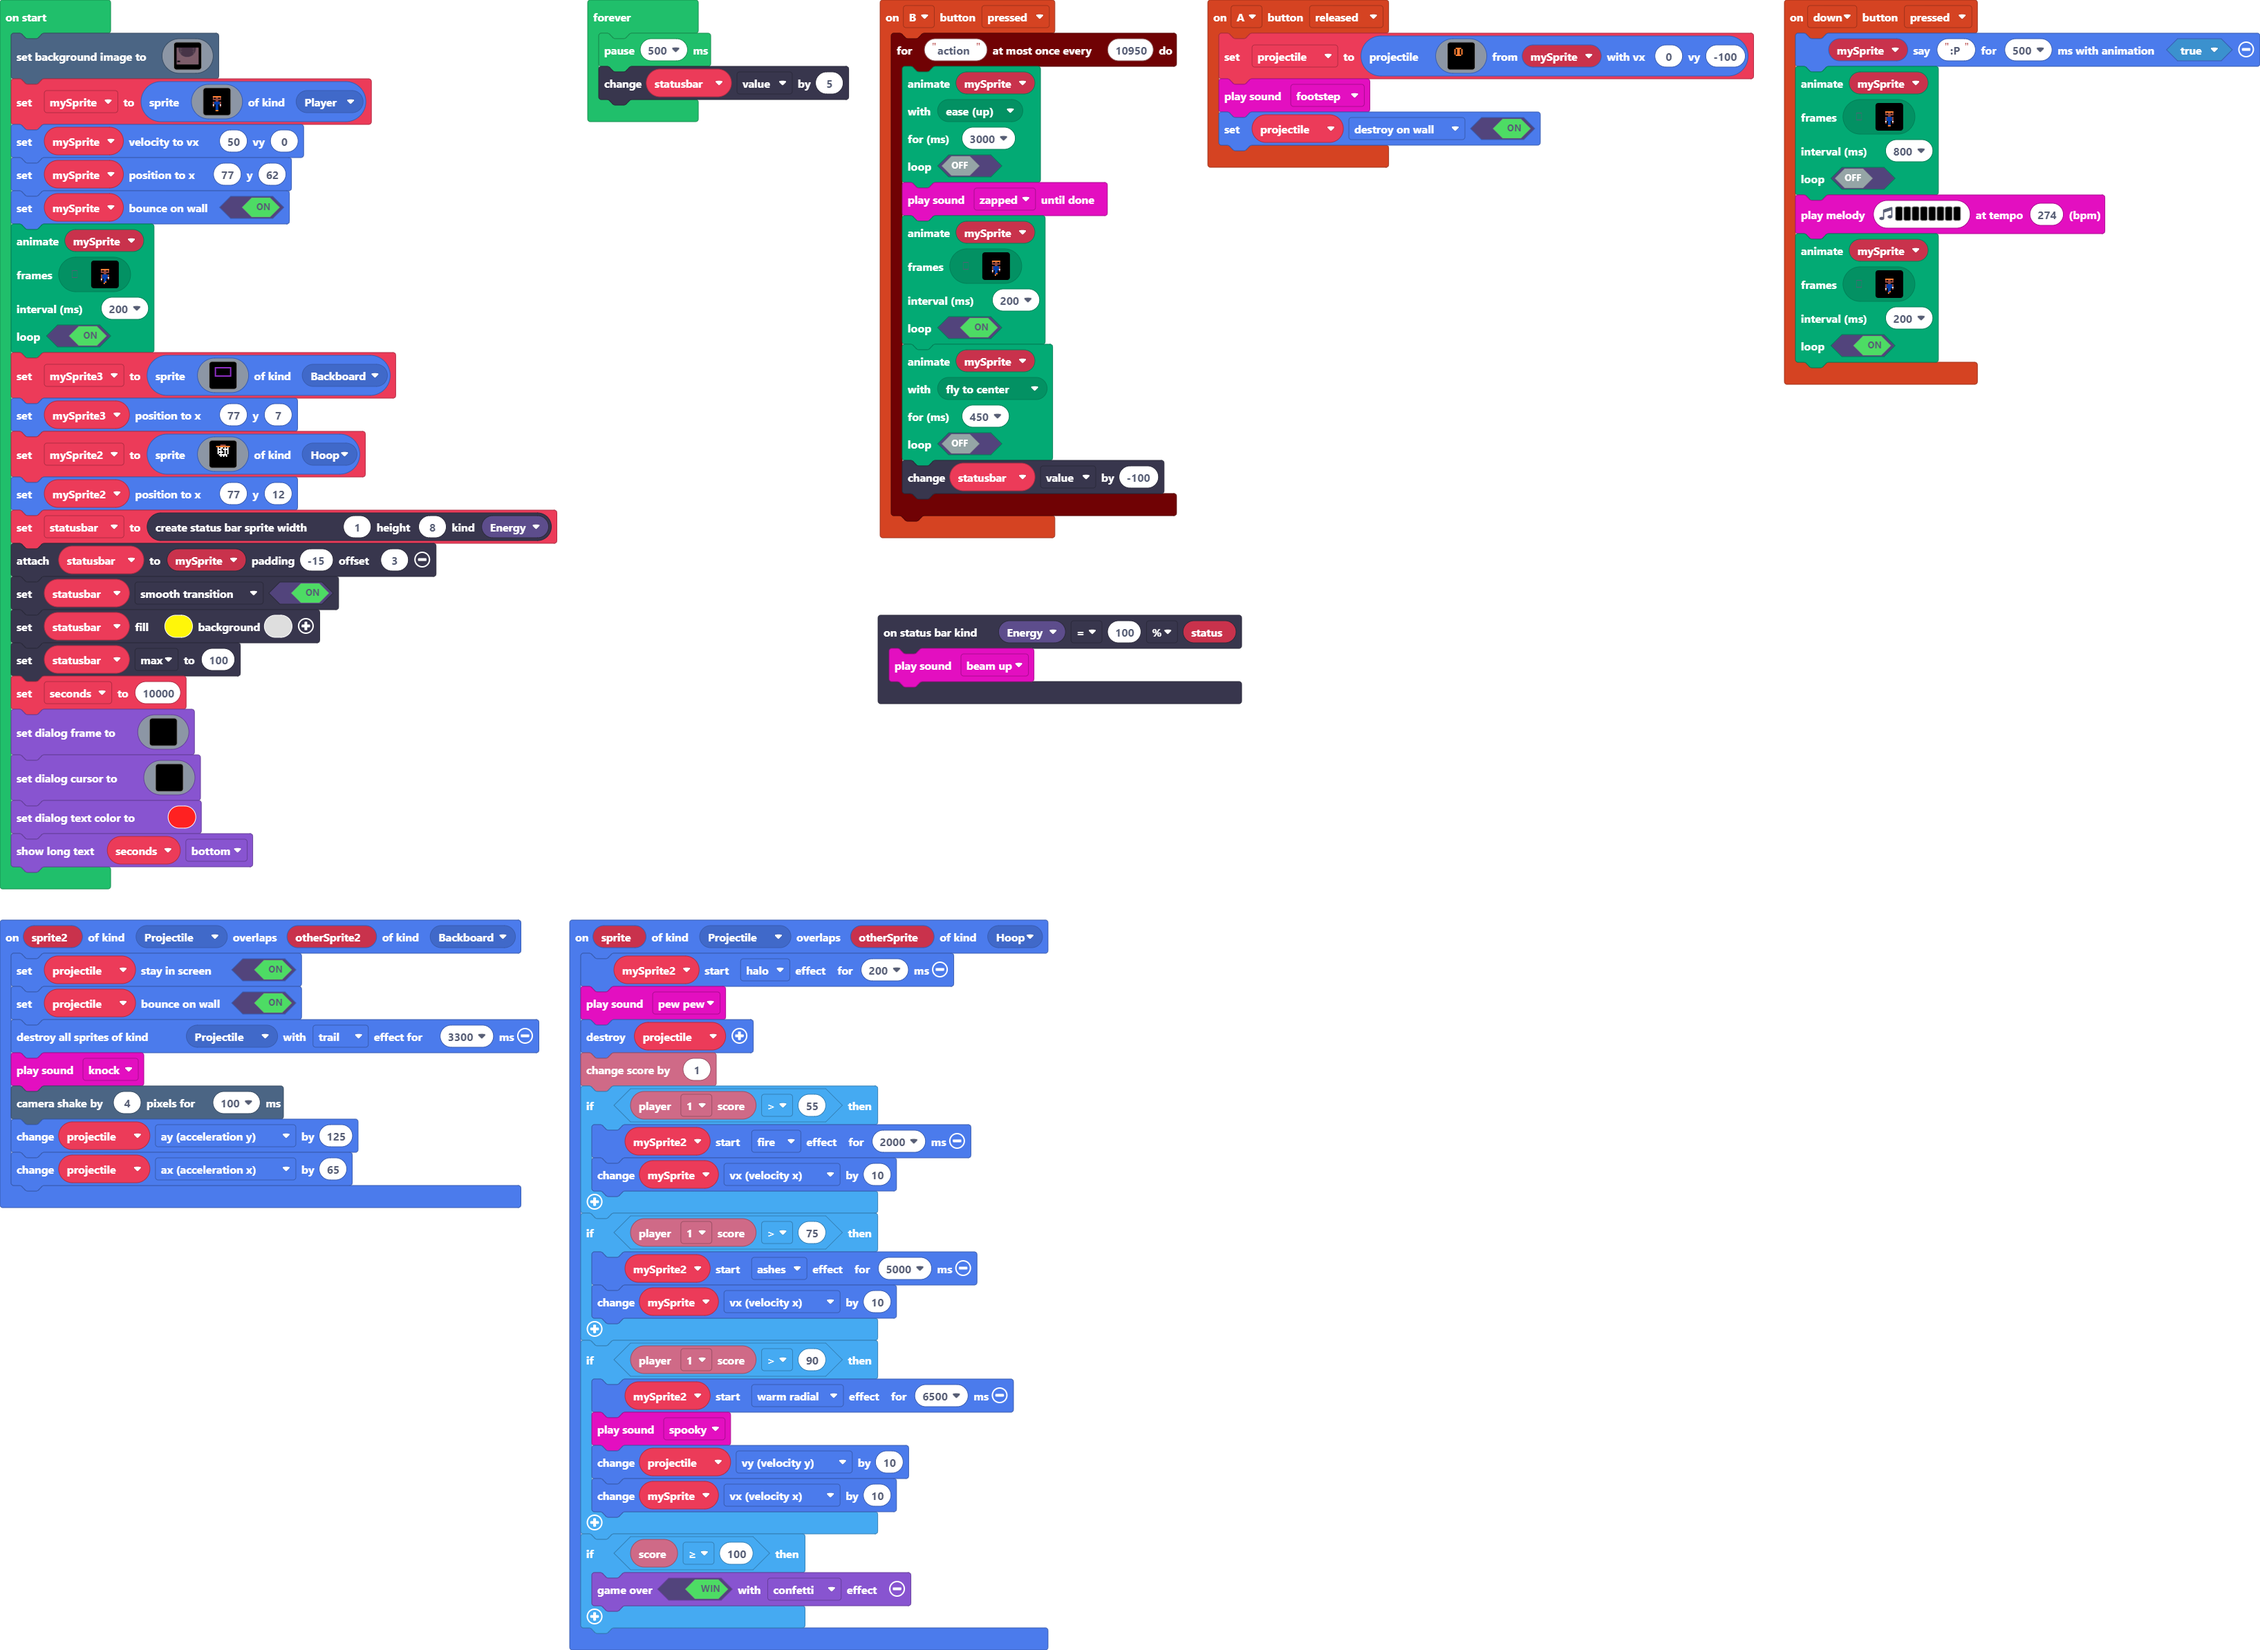
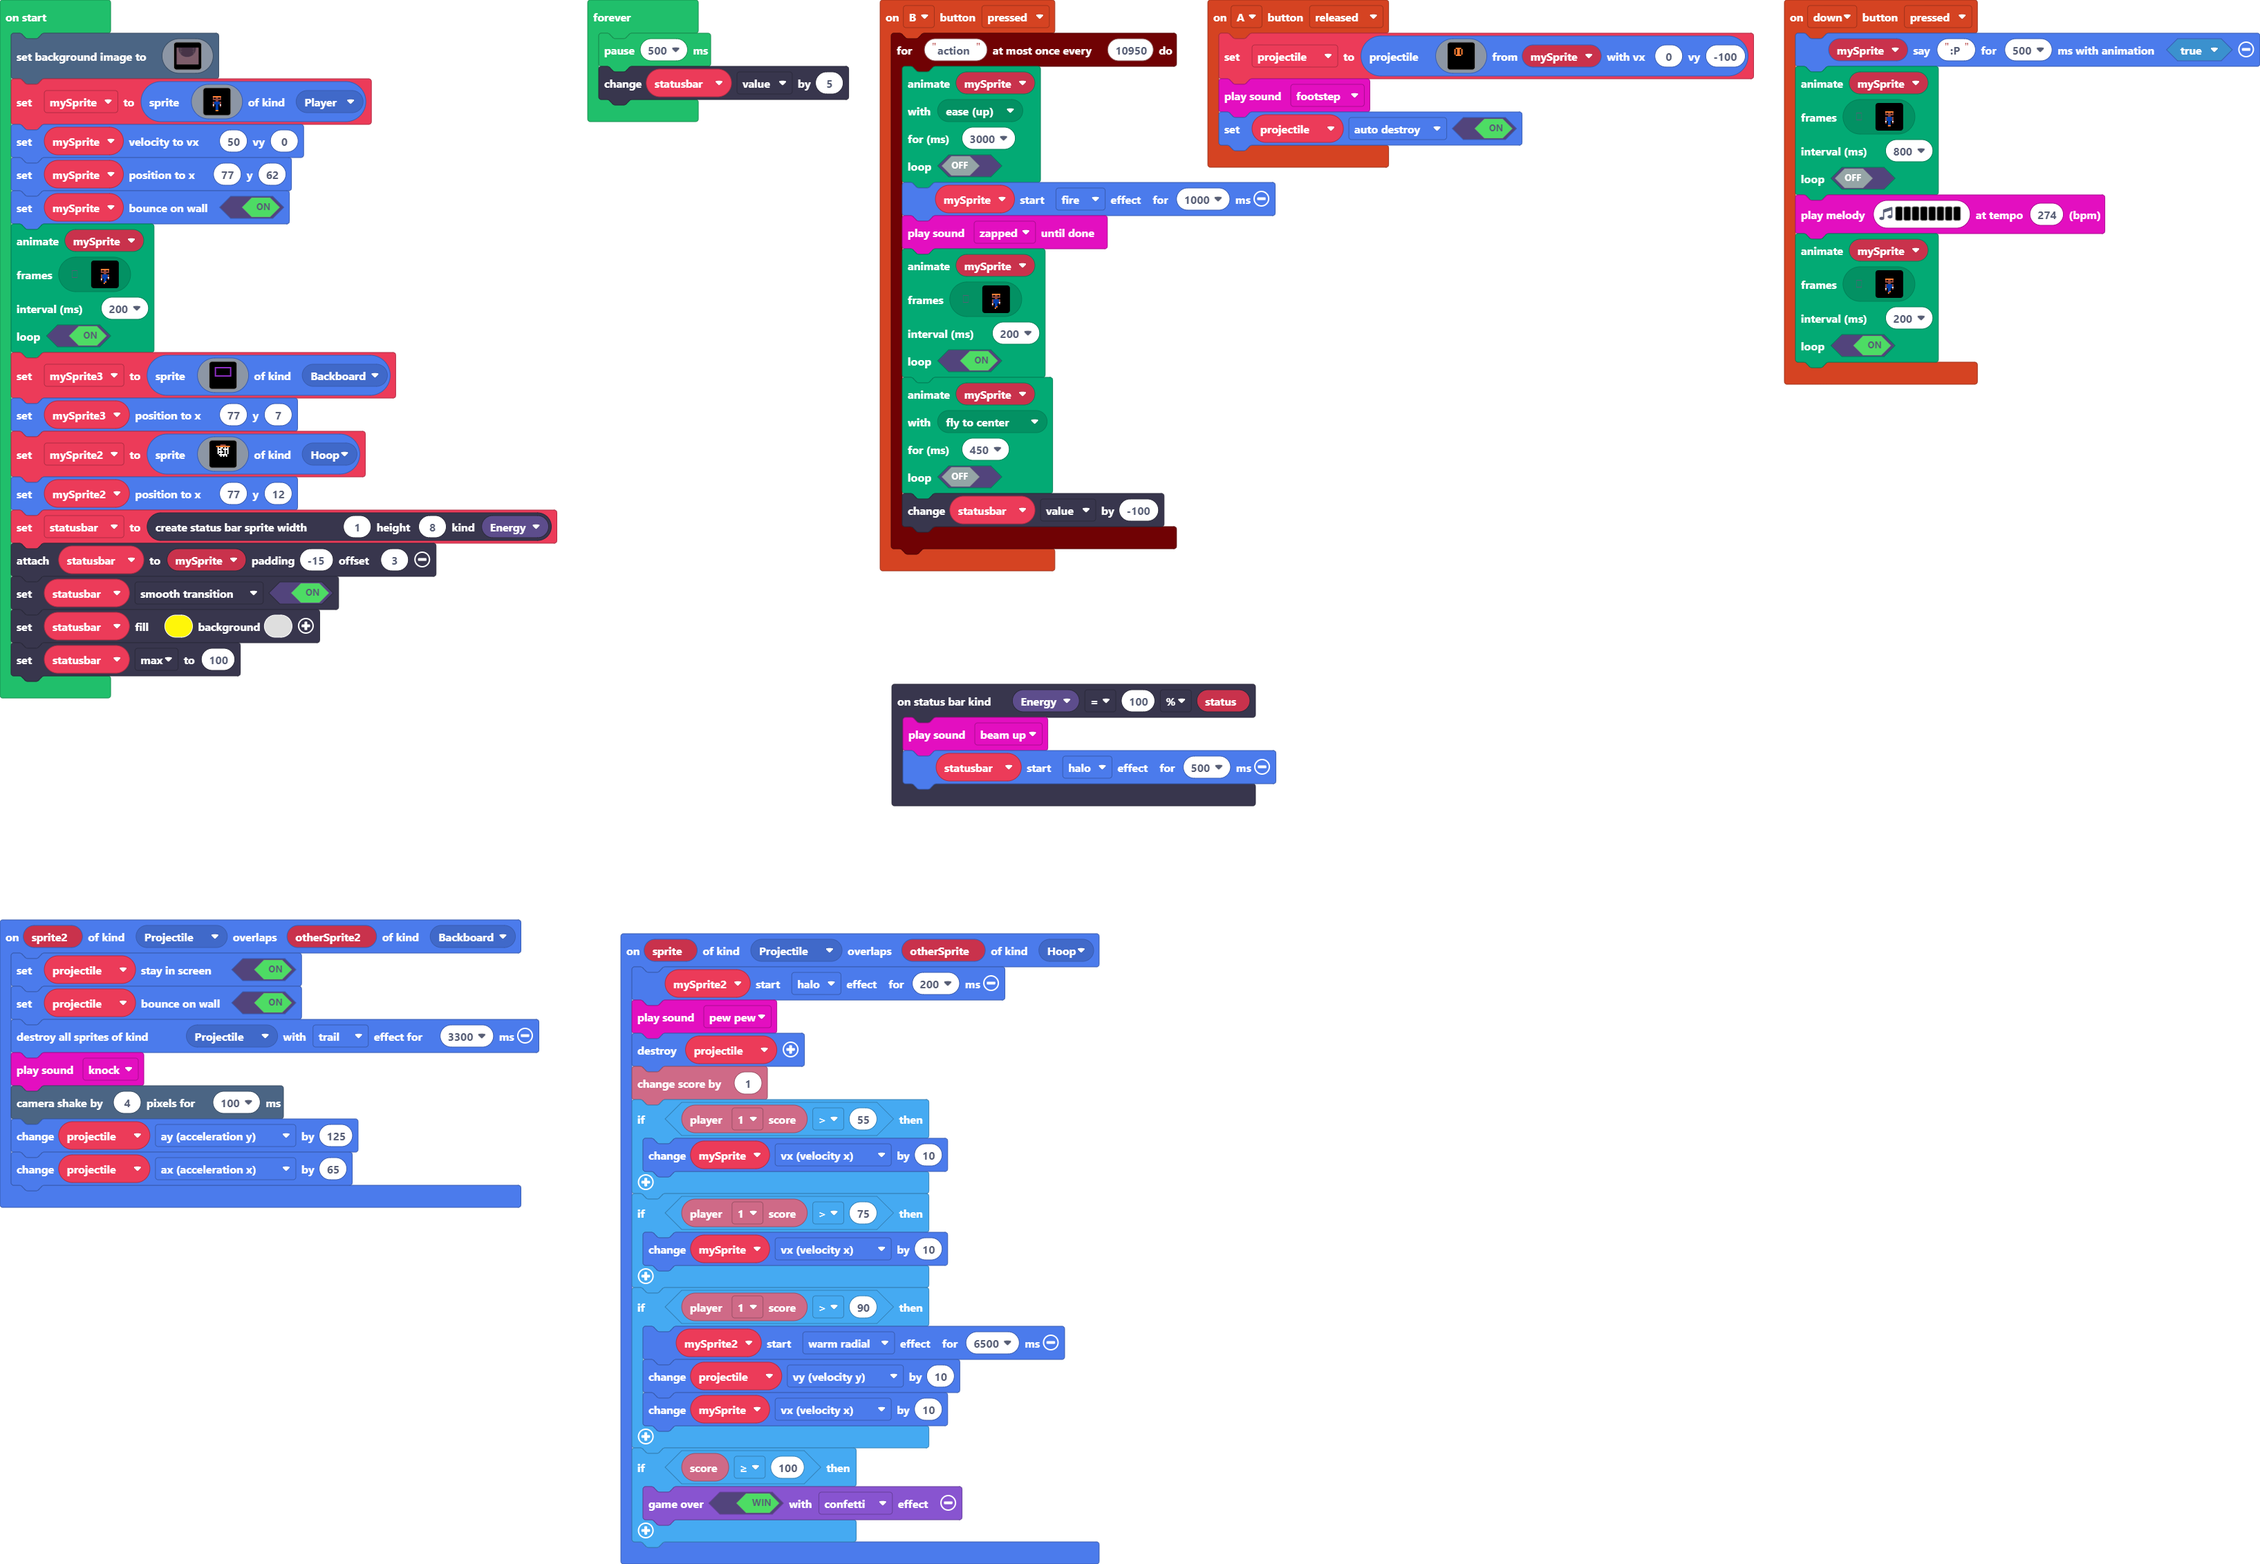
Reworked stam + various effects, removed countdown for now

diff --git a/images.g.ts b/images.g.ts
@@ -231,16 +231,16 @@ bbbbbbbbbbbbbbbbbbbbbbbbbbbbbbbbbbbbbbbbbbbbbbbbbbbbbbbbbbbbbbbbbbbbbbbbbbbbbbbb
 bbbbbbbbbbbbbbbbbbbbbbbbbbbbbbbbbbbbbbbbbbbbbbbbbbbbbbbbbbbbbbbbbbbbbbbbbbbbbbbbbbbbbbbbbbbbbbbbbbbbbbbbbbbbbbbbbbbbbbbbbbbbbbbbbbbbbbbbbbbbbbbbbbbbbbbbbbbbbbbb
 bbbbbbbbbbbbbbbbbbbbbbbbbbbbbbbbbbbbbbbbbbbbbbbbbbbbbbbbbbbbbbbbbbbbbbbbbbbbbbbbbbbbbbbbbbbbbbbbbbbbbbbbbbbbbbbbbbbbbbbbbbbbbbbbbbbbbbbbbbbbbbbbbbbbbbbbbbbbbbbb
 bbbbbbbbbbbbbbbbbbbbbbbbbbbbbbbbbbbbbbbbbbbbbbbbbbbbbbbbbbbbbbbbbbbbbbbbbbbbbbbbbbbbbbbbbbbbbbbbbbbbbbbbbbbbbbbbbbbbbbbbbbbbbbbbbbbbbbbbbbbbbbbbbbbbbbbbbbbbbbbb
-bbbbbbffffffffffffffffffffbbbbbbbbbbbbbbbbbbbbbbbbbbbbbbbbbbbbbbbbbbbbbbbbbbbbbbbbbbbbbbbbbbbbbbbbbbbbbbbbbbbbbbbbbbbbbbbbbbbbbbbbbbbbbbbbbbbbbbbbbbbbbbbbbbbbbb
-bbbbbbffffffffffffffffffffbbbbbbbbbbbbbbbbbbbbbbbbbbbbbbbbbbbbbbbbbbbbbbbbbbbbbbbbbbbbbbbbbbbbbbbbbbbbbbbbbbbbbbbbbbbbbbbbbbbbbbbbbbbbbbbbbbbbbbbbbbbbbbbbbbbbbb
-bbbbbbffffffffffffffffffffbbbbbbbbbbbbbbbbbbbbbbbbbbbbbbbbbbbbbbbbbbbbbbbbbbbbbbbbbbbbbbbbbbbbbbbbbbbbbbbbbbbbbbbbbbbbbbbbbbbbbbbbbbbbbbbbbbbbbbbbbbbbbbbbbbbbbb
-bbbbbbffffffffffffffffffffbbbbbbbbbbbbbbbbbbbbbbbbbbbbbbbbbbbbbbbbbbbbbbbbbbbbbbbbbbbbbbbbbbbbbbbbbbbbbbbbbbbbbbbbbbbbbbbbbbbbbbbbbbbbbbbbbbbbbbbbbbbbbbbbbbbbbb
-bbbbbbffffffffffffffffffffbbbbbbbbbbbbbbbbbbbbbbbbbbbbbbbbbbbbbbbbbbbbbbbbbbbbbbbbbbbbbbbbbbbbbbbbbbbbbbbbbbbbbbbbbbbbbbbbbbbbbbbbbbbbbbbbbbbbbbbbbbbbbbbbbbbbbb
-bbbbbbffffffffffffffffffffbbbbbbbbbbbbbbbbbbbbbbbbbbbbbbbbbbbbbbbbbbbbbbbbbbbbbbbbbbbbbbbbbbbbbbbbbbbbbbbbbbbbbbbbbbbbbbbbbbbbbbbbbbbbbbbbbbbbbbbbbbbbbbbbbbbbbb
-bbbbbbffffffffffffffffffffbbbbbbbbbbbbbbbbbbbbbbbbbbbbbbbbbbbbbbbbbbbbbbbbbbbbbbbbbbbbbbbbbbbbbbbbbbbbbbbbbbbbbbbbbbbbbbbbbbbbbbbbbbbbbbbbbbbbbbbbbbbbbbbbbbbbbb
-bbbbbbffffffffffffffffffffbbbbbbbbbbbbbbbbbbbbbbbbbbbbbbbbbbbbbbbbbbbbbbbbbbbbbbbbbbbbbbbbbbbbbbbbbbbbbbbbbbbbbbbbbbbbbbbbbbbbbbbbbbbbbbbbbbbbbbbbbbbbbbbbbbbbbb
-bbbbbbffffffffffffffffffffbbbbbbbbbbbbbbbbbbbbbbbbbbbbbbbbbbbbbbbbbbbbbbbbbbbbbbbbbbbbbbbbbbbbbbbbbbbbbbbbbbbbbbbbbbbbbbbbbbbbbbbbbbbbbbbbbbbbbbbbbbbbbbbbbbbbbb
-bbbbbbffffffffffffffffffffbbbbbbbbbbbbbbbbbbbbbbbbbbbbbbbbbbbbbbbbbbbbbbbbbbbbbbbbbbbbbbbbbbbbbbbbbbbbbbbbbbbbbbbbbbbbbbbbbbbbbbbbbbbbbbbbbbbbbbbbbbbbbbbbbbbbbb
+bbbbbbbbbbbbbbbbbbbbbbbbbbbbbbbbbbbbbbbbbbbbbbbbbbbbbbbbbbbbbbbbbbbbbbbbbbbbbbbbbbbbbbbbbbbbbbbbbbbbbbbbbbbbbbbbbbbbbbbbbbbbbbbbbbbbbbbbbbbbbbbbbbbbbbbbbbbbbbbb
+bbbbbbbbbbbbbbbbbbbbbbbbbbbbbbbbbbbbbbbbbbbbbbbbbbbbbbbbbbbbbbbbbbbbbbbbbbbbbbbbbbbbbbbbbbbbbbbbbbbbbbbbbbbbbbbbbbbbbbbbbbbbbbbbbbbbbbbbbbbbbbbbbbbbbbbbbbbbbbbb
+bbbbbbbbbbbbbbbbbbbbbbbbbbbbbbbbbbbbbbbbbbbbbbbbbbbbbbbbbbbbbbbbbbbbbbbbbbbbbbbbbbbbbbbbbbbbbbbbbbbbbbbbbbbbbbbbbbbbbbbbbbbbbbbbbbbbbbbbbbbbbbbbbbbbbbbbbbbbbbbb
+bbbbbbbbbbbbbbbbbbbbbbbbbbbbbbbbbbbbbbbbbbbbbbbbbbbbbbbbbbbbbbbbbbbbbbbbbbbbbbbbbbbbbbbbbbbbbbbbbbbbbbbbbbbbbbbbbbbbbbbbbbbbbbbbbbbbbbbbbbbbbbbbbbbbbbbbbbbbbbbb
+bbbbbbbbbbbbbbbbbbbbbbbbbbbbbbbbbbbbbbbbbbbbbbbbbbbbbbbbbbbbbbbbbbbbbbbbbbbbbbbbbbbbbbbbbbbbbbbbbbbbbbbbbbbbbbbbbbbbbbbbbbbbbbbbbbbbbbbbbbbbbbbbbbbbbbbbbbbbbbbb
+bbbbbbbbbbbbbbbbbbbbbbbbbbbbbbbbbbbbbbbbbbbbbbbbbbbbbbbbbbbbbbbbbbbbbbbbbbbbbbbbbbbbbbbbbbbbbbbbbbbbbbbbbbbbbbbbbbbbbbbbbbbbbbbbbbbbbbbbbbbbbbbbbbbbbbbbbbbbbbbb
+bbbbbbbbbbbbbbbbbbbbbbbbbbbbbbbbbbbbbbbbbbbbbbbbbbbbbbbbbbbbbbbbbbbbbbbbbbbbbbbbbbbbbbbbbbbbbbbbbbbbbbbbbbbbbbbbbbbbbbbbbbbbbbbbbbbbbbbbbbbbbbbbbbbbbbbbbbbbbbbb
+bbbbbbbbbbbbbbbbbbbbbbbbbbbbbbbbbbbbbbbbbbbbbbbbbbbbbbbbbbbbbbbbbbbbbbbbbbbbbbbbbbbbbbbbbbbbbbbbbbbbbbbbbbbbbbbbbbbbbbbbbbbbbbbbbbbbbbbbbbbbbbbbbbbbbbbbbbbbbbbb
+bbbbbbbbbbbbbbbbbbbbbbbbbbbbbbbbbbbbbbbbbbbbbbbbbbbbbbbbbbbbbbbbbbbbbbbbbbbbbbbbbbbbbbbbbbbbbbbbbbbbbbbbbbbbbbbbbbbbbbbbbbbbbbbbbbbbbbbbbbbbbbbbbbbbbbbbbbbbbbbb
+bbbbbbbbbbbbbbbbbbbbbbbbbbbbbbbbbbbbbbbbbbbbbbbbbbbbbbbbbbbbbbbbbbbbbbbbbbbbbbbbbbbbbbbbbbbbbbbbbbbbbbbbbbbbbbbbbbbbbbbbbbbbbbbbbbbbbbbbbbbbbbbbbbbbbbbbbbbbbbbb
 bbbbbbbbbbbbbbbbbbbbbbbbbbbbbbbbbbbbbbbbbbbbbbbbbbbbbbbbbbbbbbbbbbbbbbbbbbbbbbbbbbbbbbbbbbbbbbbbbbbbbbbbbbbbbbbbbbbbbbbbbbbbbbbbbbbbbbbbbbbbbbbbbbbbbbbbbbbbbbbb
 bbbbbbbbbbbbbbbbbbbbbbbbbbbbbbbbbbbbbbbbbbbbbbbbbbbbbbbbbbbbbbbbbbbbbbbbbbbbbbbbbbbbbbbbbbbbbbbbbbbbbbbbbbbbbbbbbbbbbbbbbbbbbbbbbbbbbbbbbbbbbbbbbbbbbbbbbbbbbbbb
 bbbbbbbbbbbbbbbbbbbbbbbbbbbbbbbbbbbbbbbbbbbbbbbbbbbbbbbbbbbbbbbbbbbbbbbbbbbbbbbbbbbbbbbbbbbbbbbbbbbbbbbbbbbbbbbbbbbbbbbbbbbbbbbbbbbbbbbbbbbbbbbbbbbbbbbbbbbbbbbb

diff --git a/main.ts b/main.ts
@@ -11,6 +11,7 @@ controller.B.onEvent(ControllerButtonEvent.Pressed, function () {
         3000,
         false
         )
+        mySprite.startEffect(effects.fire, 1000)
         music.zapped.playUntilDone()
         animation.runImageAnimation(
         mySprite,
@@ -33,16 +34,13 @@ sprites.onOverlap(SpriteKind.Projectile, SpriteKind.Hoop, function (sprite, othe
     projectile.destroy()
     info.changeScoreBy(1)
     if (info.player1.score() > 55) {
-        mySprite2.startEffect(effects.fire, 2000)
         mySprite.vx += 10
     }
     if (info.player1.score() > 75) {
-        mySprite2.startEffect(effects.ashes, 5000)
         mySprite.vx += 10
     }
     if (info.player1.score() > 90) {
         mySprite2.startEffect(effects.warmRadial, 6500)
-        music.spooky.play()
         projectile.vy += 10
         mySprite.vx += 10
     }
@@ -53,7 +51,7 @@ sprites.onOverlap(SpriteKind.Projectile, SpriteKind.Hoop, function (sprite, othe
 controller.A.onEvent(ControllerButtonEvent.Released, function () {
     projectile = sprites.createProjectileFromSprite(assets.image`Basketball`, mySprite, 0, -100)
     music.footstep.play()
-    projectile.setFlag(SpriteFlag.DestroyOnWall, true)
+    projectile.setFlag(SpriteFlag.AutoDestroy, true)
 })
 controller.down.onEvent(ControllerButtonEvent.Pressed, function () {
     mySprite.sayText(":P", 500, true)
@@ -124,6 +122,7 @@ controller.down.onEvent(ControllerButtonEvent.Pressed, function () {
 })
 statusbars.onStatusReached(StatusBarKind.Energy, statusbars.StatusComparison.EQ, statusbars.ComparisonType.Percentage, 100, function (status) {
     music.beamUp.play()
+    statusbar.startEffect(effects.halo, 500)
 })
 sprites.onOverlap(SpriteKind.Projectile, SpriteKind.Backboard, function (sprite2, otherSprite2) {
     projectile.setStayInScreen(true)
@@ -158,28 +157,6 @@ statusbar.attachToSprite(mySprite, -15, 3)
 statusbar.setStatusBarFlag(StatusBarFlag.SmoothTransition, true)
 statusbar.setColor(5, 0)
 statusbar.max = 100
-let seconds = 10000
-game.setDialogFrame(assets.image`timer`)
-game.setDialogCursor(img`
-    . . . . . . . . . . . . . . . . 
-    . . . . . . . . . . . . . . . . 
-    . . . . . . . . . . . . . . . . 
-    . . . . . . . . . . . . . . . . 
-    . . . . . . . . . . . . . . . . 
-    . . . . . . . . . . . . . . . . 
-    . . . . . . . . . . . . . . . . 
-    . . . . . . . . . . . . . . . . 
-    . . . . . . . . . . . . . . . . 
-    . . . . . . . . . . . . . . . . 
-    . . . . . . . . . . . . . . . . 
-    . . . . . . . . . . . . . . . . 
-    . . . . . . . . . . . . . . . . 
-    . . . . . . . . . . . . . . . . 
-    . . . . . . . . . . . . . . . . 
-    . . . . . . . . . . . . . . . . 
-    `)
-game.setDialogTextColor(2)
-game.showLongText(seconds, DialogLayout.Bottom)
 forever(function () {
     pause(500)
     statusbar.value += 5
